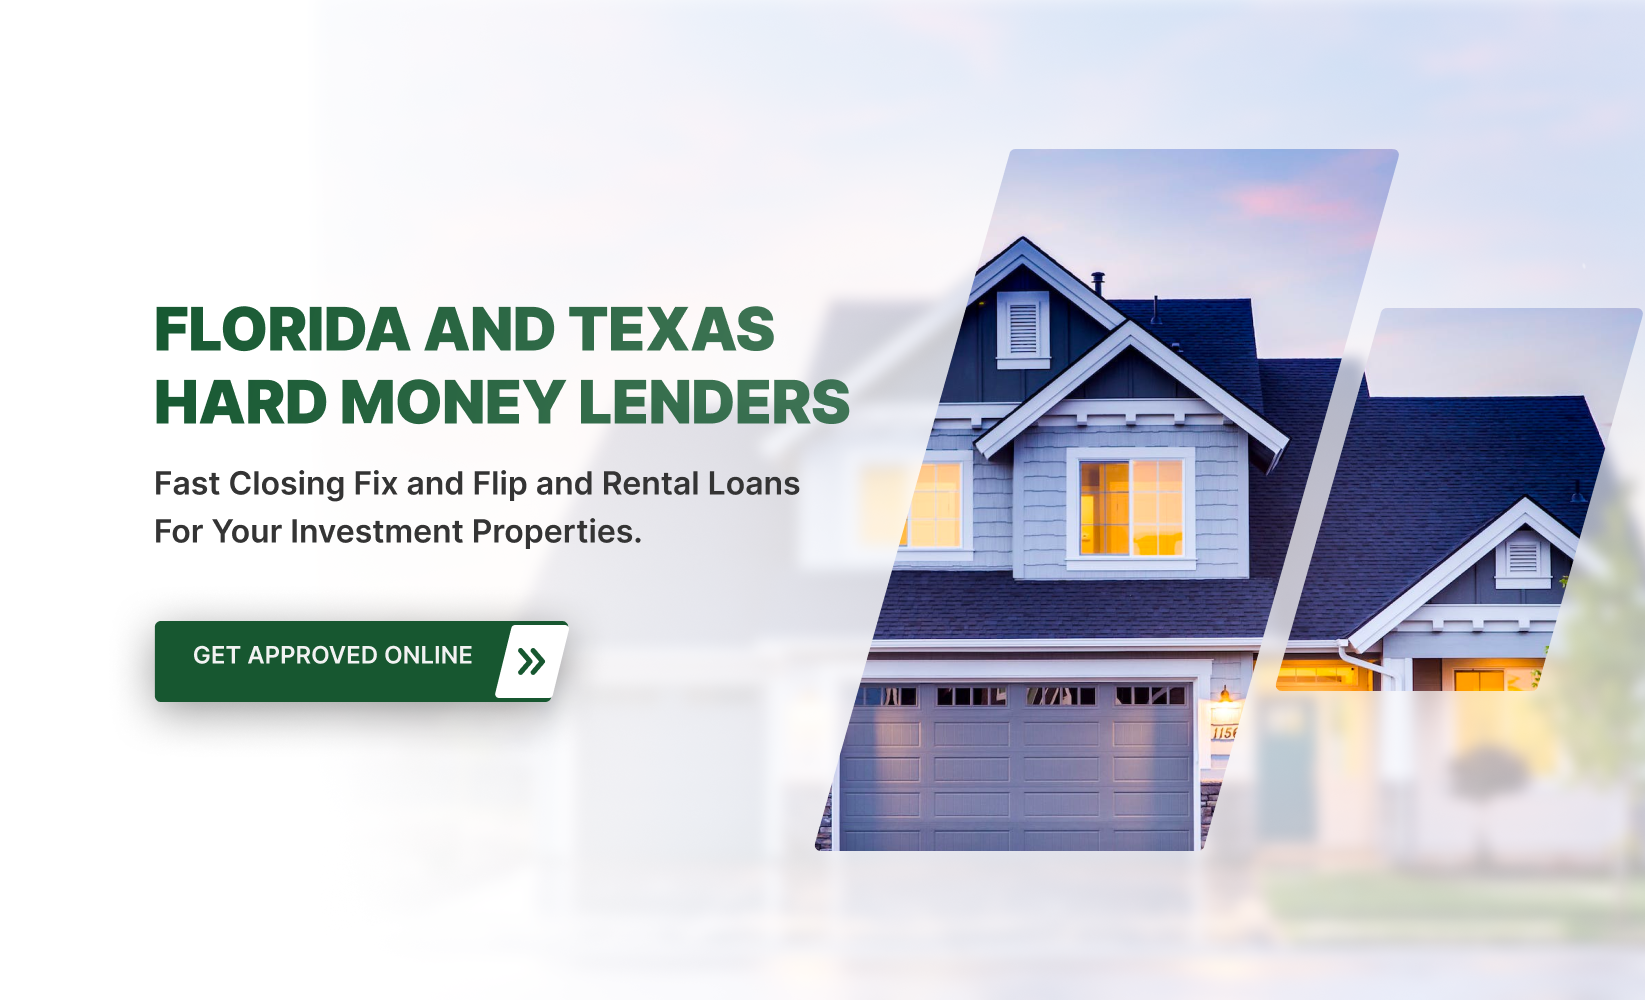
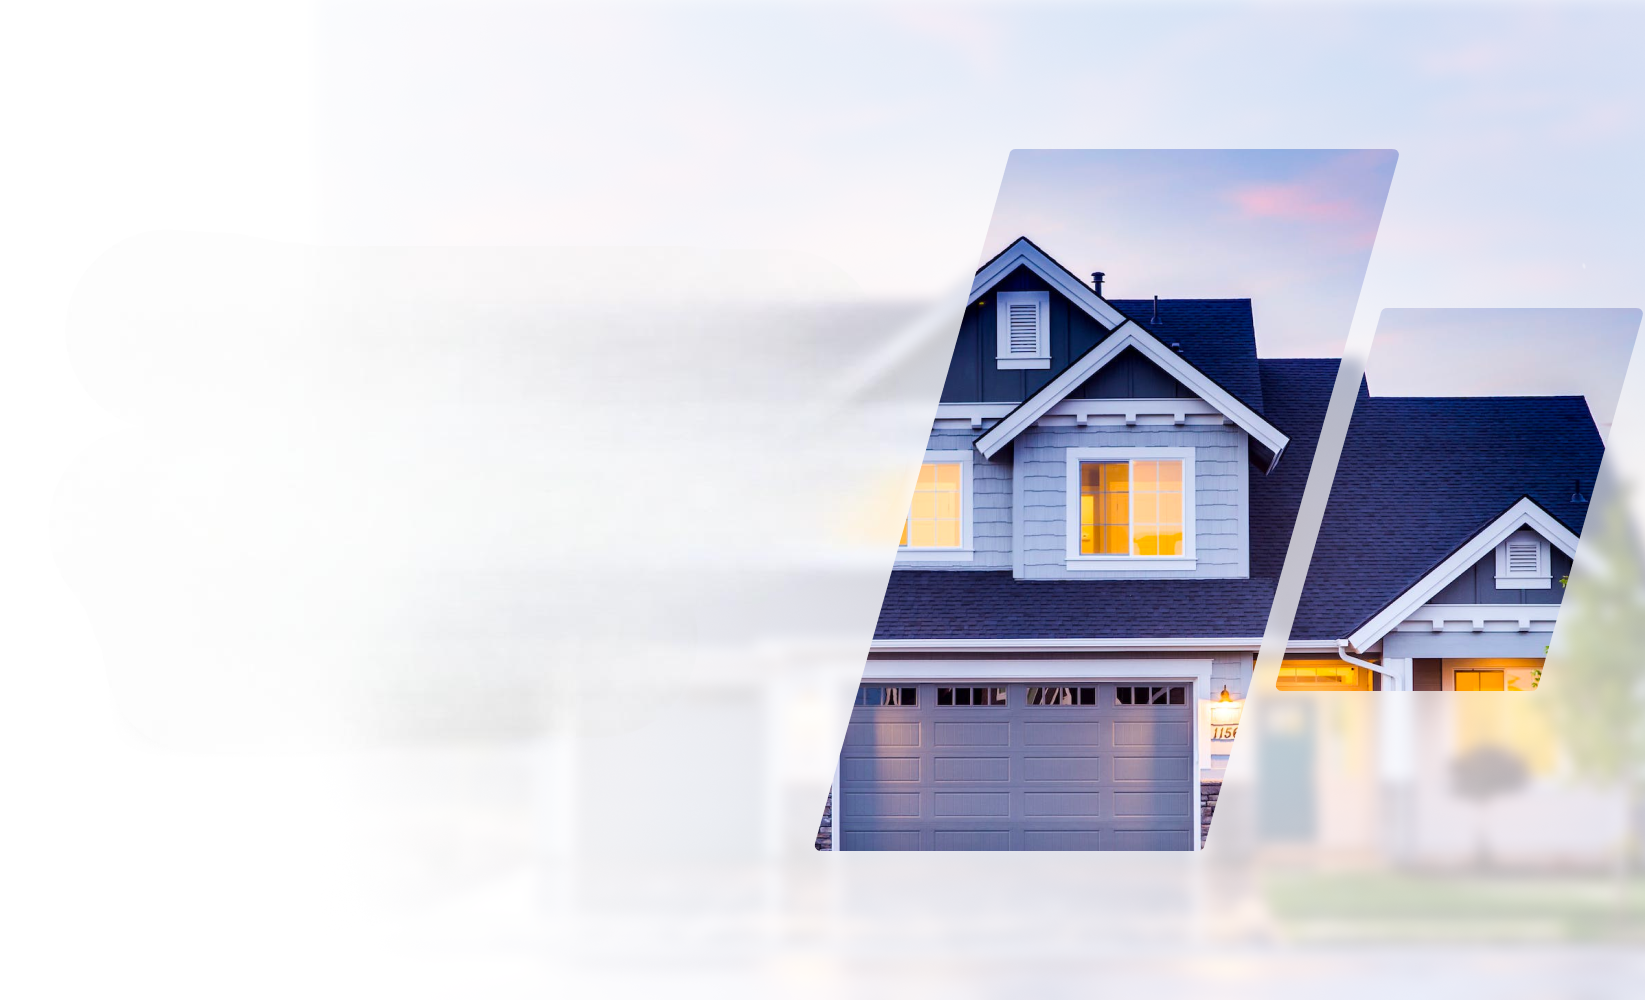
feat: choose us

diff --git a/src/app/(public)/(home)/component/Banner.tsx b/src/app/(public)/(home)/component/Banner.tsx
@@ -1,0 +1,33 @@
+import { PrimaryButton } from '@/components/shared';
+import Image from 'next/image';
+import React from 'react';
+
+const Banner = () => {
+    return (
+        <div className='w-full h-[120vh] flex items-center px-5'>
+            <div className='w-1/2 z-20 flex flex-col justify-center items-start'>
+                <h1 className='text-6xl font-extrabold text-primary'>
+                    Florida and Texas <br />
+                    Hard Money Lenders
+                </h1>
+                <p className='text-3xl text-gray-400 mt-5 font-semibold pb-14'>
+                    Fast Closing Fix and Flip and Rental Loans <br /> For Your
+                    Investment Properties.
+                </p>
+
+                <PrimaryButton content='get approved online' />
+            </div>
+
+            <div className='h-full mt-28'>
+                <Image
+                    src='/banner.png'
+                    alt='Banner Image'
+                    layout='fill'
+                    objectFit='cover'
+                />
+            </div>
+        </div>
+    );
+};
+
+export default Banner;

diff --git a/src/app/(public)/(home)/component/ChooseUs/ChooseCard.tsx b/src/app/(public)/(home)/component/ChooseUs/ChooseCard.tsx
@@ -1,0 +1,27 @@
+import Image from 'next/image';
+import React from 'react';
+interface ChooseCardProps {
+    title: string;
+    description: string;
+    icon: string;
+}
+const ChooseCard = ({ title, description, icon }: ChooseCardProps) => {
+    return (
+        <div className='relative border p-4 rounded-lg h-[330px] w-11/12'>
+            <h3 className='text-2xl font-bold'>{title}</h3>
+            <p className='text-gray-400 mt-5'>{description}</p>
+
+            <div className='absolute bg-[#EEFFF5] rounded w-fit p-8 clip-angled bottom-0 left-0'>
+                <Image
+                    src={icon}
+                    alt={title}
+                    width={120}
+                    height={120}
+                    className='w-20 h-20 mb-2'
+                />
+            </div>
+        </div>
+    );
+};
+
+export default ChooseCard;

diff --git a/src/app/(public)/(home)/component/ChooseUs/ChooseUs.tsx b/src/app/(public)/(home)/component/ChooseUs/ChooseUs.tsx
@@ -1,0 +1,24 @@
+import { SectionTitle } from '@/components/shared';
+import { CHOOSE } from '@/static/choose';
+import React from 'react';
+import ChooseCard from './ChooseCard';
+
+const ChooseUs = () => {
+    return (
+        <div className='py-[120px]'>
+            <SectionTitle title='Why Choose Us' />
+            <div className='py-12 grid grid-cols-1 md:grid-cols-2 lg:grid-cols-3 gap-7 mx-5'>
+                {CHOOSE.map((item) => (
+                    <ChooseCard
+                        key={item.id}
+                        title={item.title}
+                        description={item.description}
+                        icon={item.icon}
+                    />
+                ))}
+            </div>
+        </div>
+    );
+};
+
+export default ChooseUs;

diff --git a/src/static/choose.ts b/src/static/choose.ts
@@ -1,0 +1,29 @@
+interface Choose {
+    id: number;
+    title: string;
+    description: string;
+    icon: string;
+}
+
+export const CHOOSE: Choose[] = [
+    {
+        id: 1,
+        title: 'Simple Online Application',
+        description:
+            'Easy 2 minute online application, with no credit pull required.',
+        icon: '/house.png'
+    },
+    {
+        id: 2,
+        title: 'Quick Turn Around',
+        description: 'Receive a Term Sheet within the hour.',
+        icon: '/time.png'
+    },
+    {
+        id: 3,
+        title: 'Reliable Financing',
+        description:
+            'Integrity and honesty are the foundations of our business. When we commit to a loan, we make sure you close on time.',
+        icon: '/reli.png'
+    }
+];

diff --git a/src/app/(public)/(home)/page.tsx b/src/app/(public)/(home)/page.tsx
@@ -1,11 +1,13 @@
 import React from 'react';
-import { LoanProduct, WhereWeLend } from './component';
+import { Banner, ChooseUs, LoanProduct, WhereWeLend } from './component';
 
 const HomePage = () => {
     return (
         <>
+            <Banner />
             <LoanProduct />
             <WhereWeLend />
+            <ChooseUs />
         </>
     );
 };

diff --git a/src/app/(public)/(home)/component/index.ts b/src/app/(public)/(home)/component/index.ts
@@ -1,2 +1,4 @@
 export { default as LoanProduct } from './LoanProduct/LoanProduct';
 export { default as WhereWeLend } from './WhereWeLend/WhereWeLend';
+export { default as Banner } from './Banner';
+export { default as ChooseUs } from './ChooseUs/ChooseUs';
